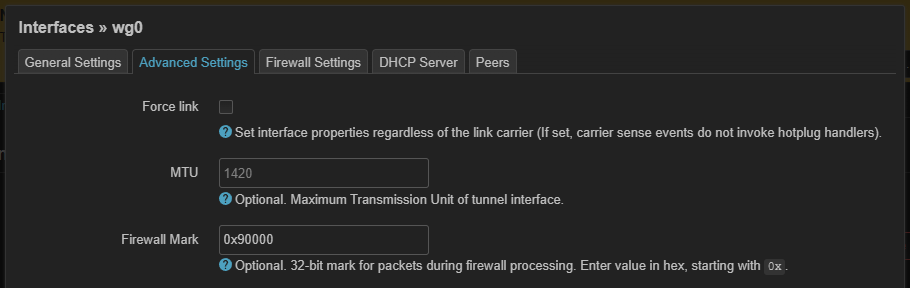
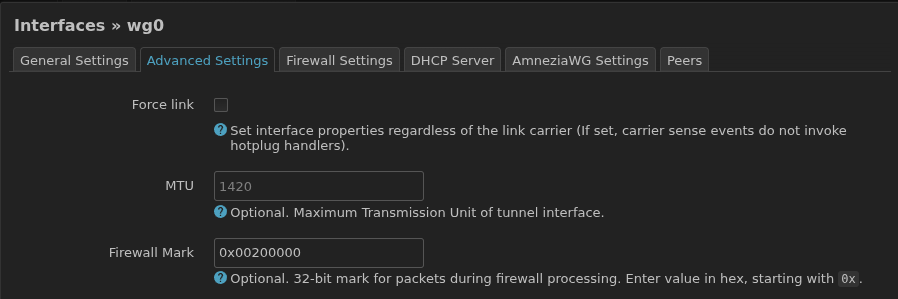
fix_firewall_mark

diff --git a/content/docs/faq/index.md b/content/docs/faq/index.md
@@ -242,7 +242,7 @@ Destination  Gateway     Genmask        Flags Metric Ref Use Iface
 
 #### Как использовать WARP и пользовательский список подсетей Cloudflare?
 
-При использовании **Wg | Awg** подключения с WARP и пользовательского списка подсетей **Cloudflare** в другом туннеле, происходит зацикливание. Чтобы избежать этого укажите в дополнительных настройках **WG | Awg** интерфейса с WARP в поле **Firewall Mark** значение 0x90000. 
+При использовании **Wg | Awg** подключения с WARP и пользовательского списка подсетей **Cloudflare** в другом туннеле, происходит зацикливание. Чтобы избежать этого укажите в дополнительных настройках **WG | Awg** интерфейса с WARP в поле **Firewall Mark** значение 0x00200000. 
 
 ![wg_firewall_mark](images/luci_wg_firewall_mark.png)
 
